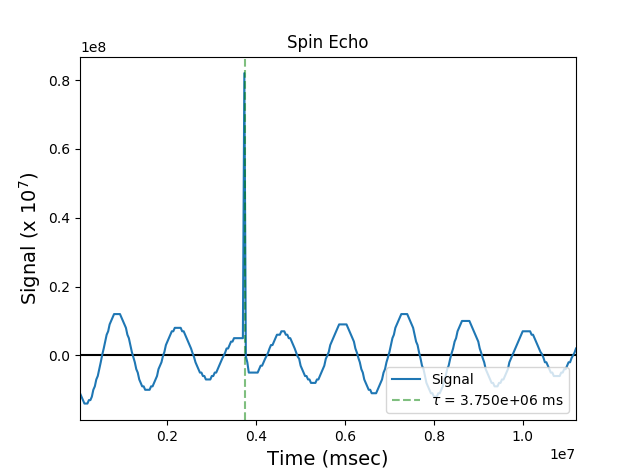
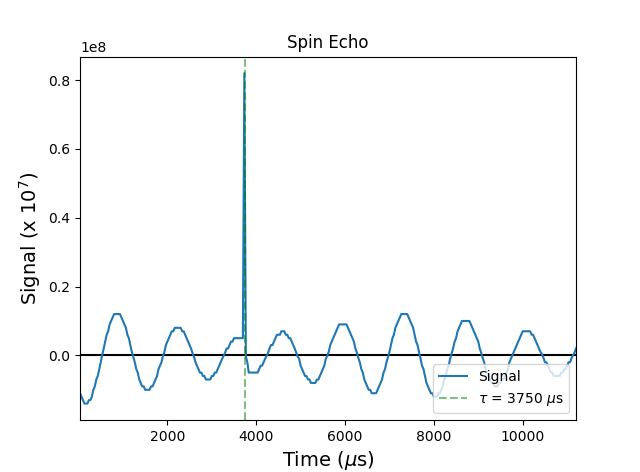
microsec spin echo

diff --git a/nmr/plot_ispin_nmr_data_spinEcho.py b/nmr/plot_ispin_nmr_data_spinEcho.py
@@ -93,13 +93,13 @@ ax1.axvline(color ='k')
 print 'len(az.real)=',len(za.real)
 print 'len(t)=',len(t)
 
-tscale = 1e3   # change time units to msec
-tunits = 'msec'
+tscale = 1   # change time unitsc
+tunits = '$\mu$s'
 tauTime = tscale*tau#t[A.argmax()]
 
 # plot the points
 ax1.plot(t*tscale,A,label='Signal')
-ax1.axvline(tauTime, ls='--',color='g',alpha=.5,label='$\\tau$ = {:.3e} ms'.format(tauTime))
+ax1.axvline(tauTime, ls='--',color='g',alpha=.5,label='$\\tau$ = {} {}'.format(tauTime,tunits))
 
 # label the axes and display legend
 ax1.set_xlabel('Time ('+np.str(tunits)+')',fontsize=14)
